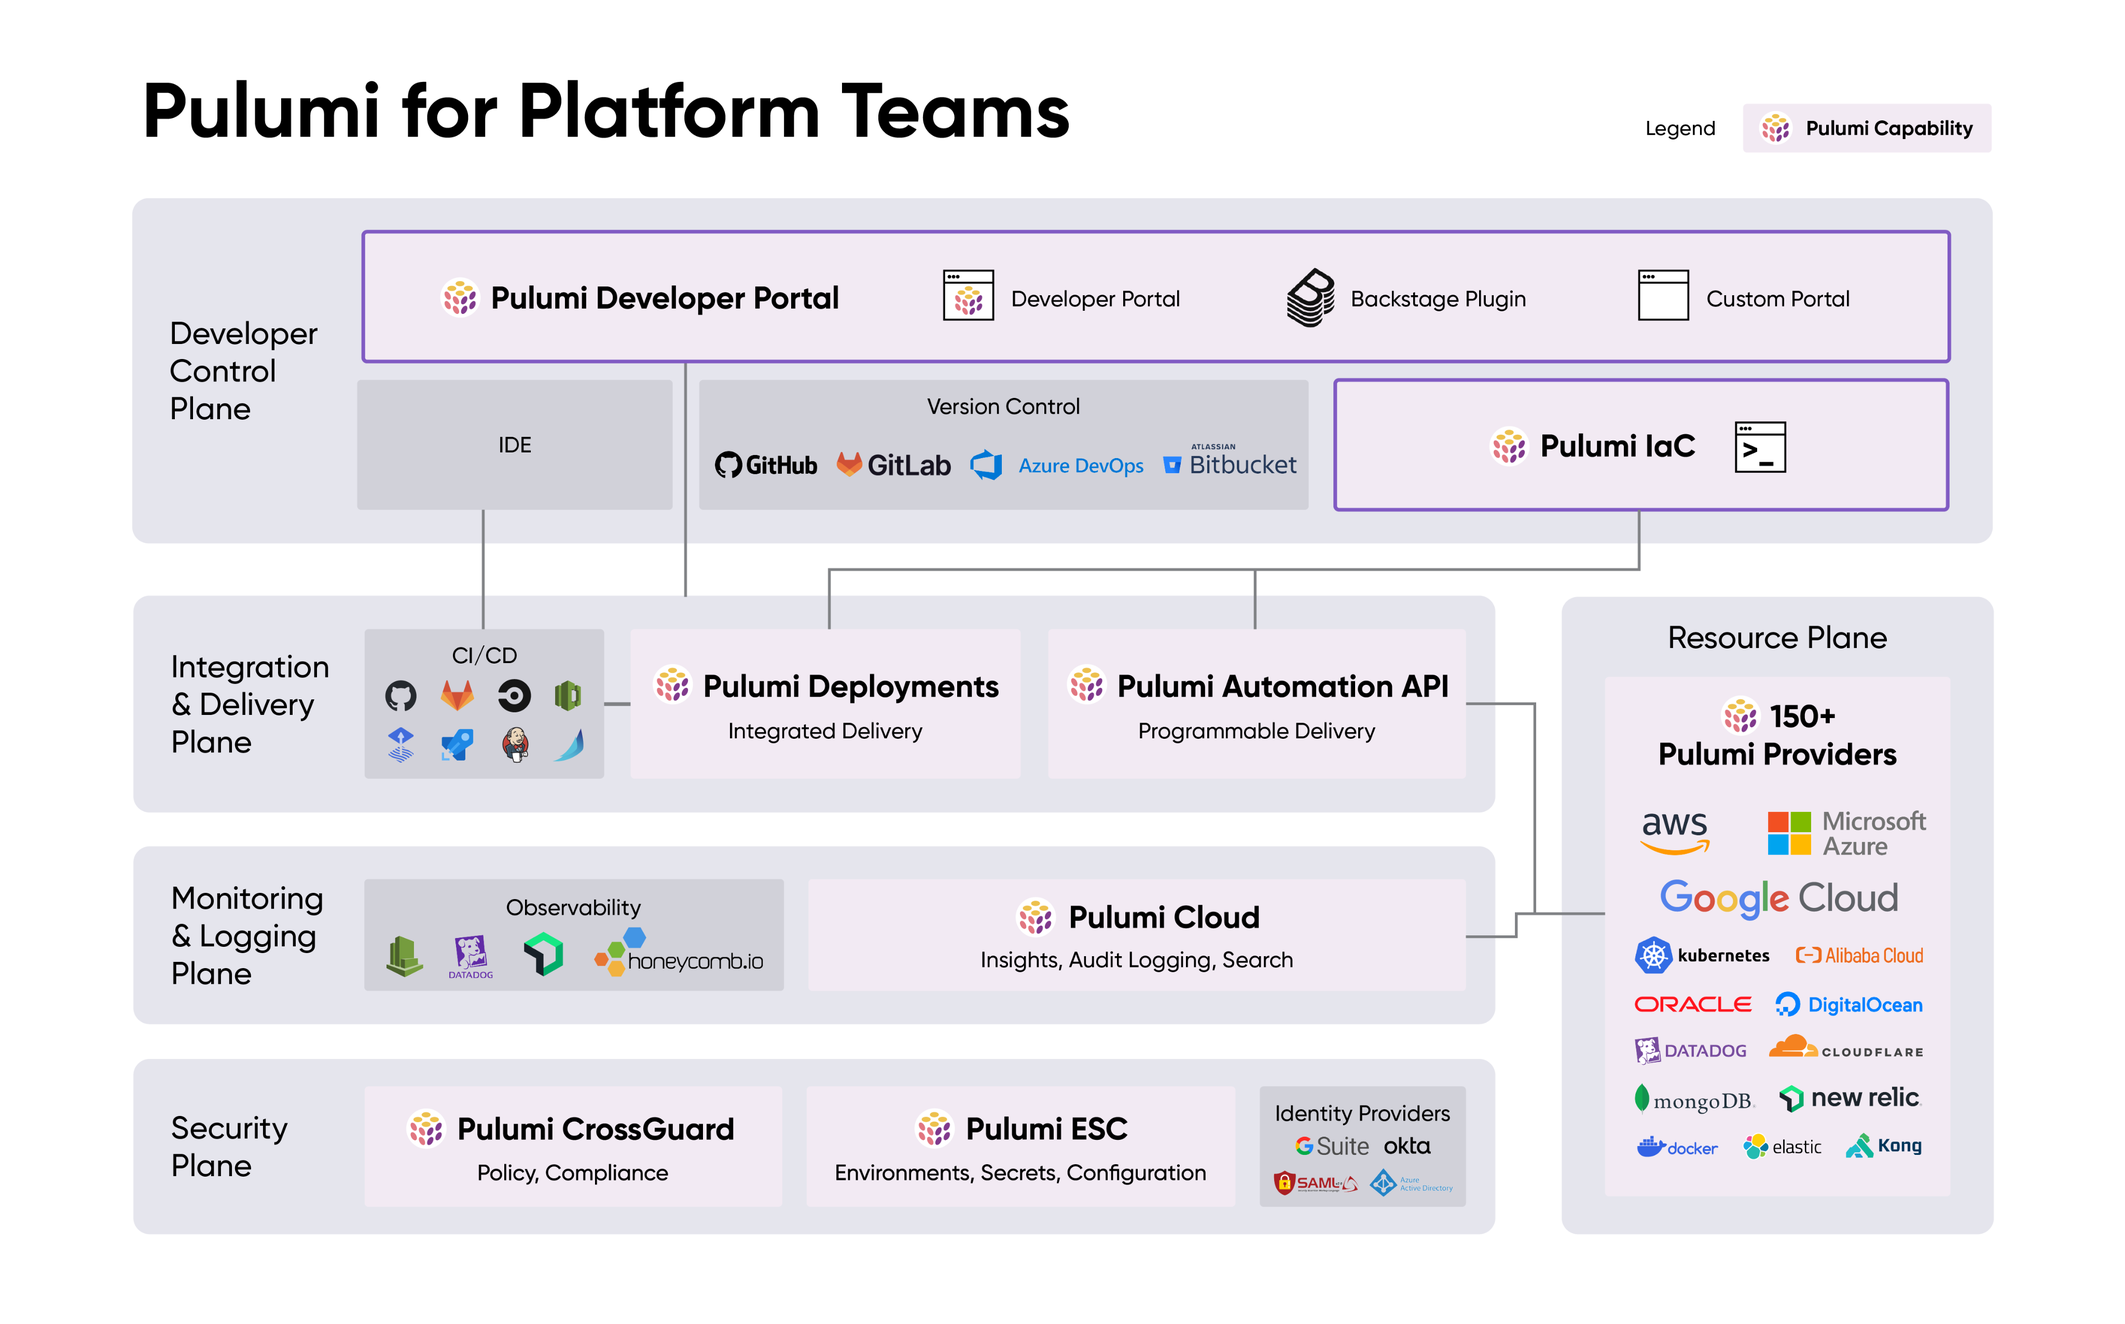
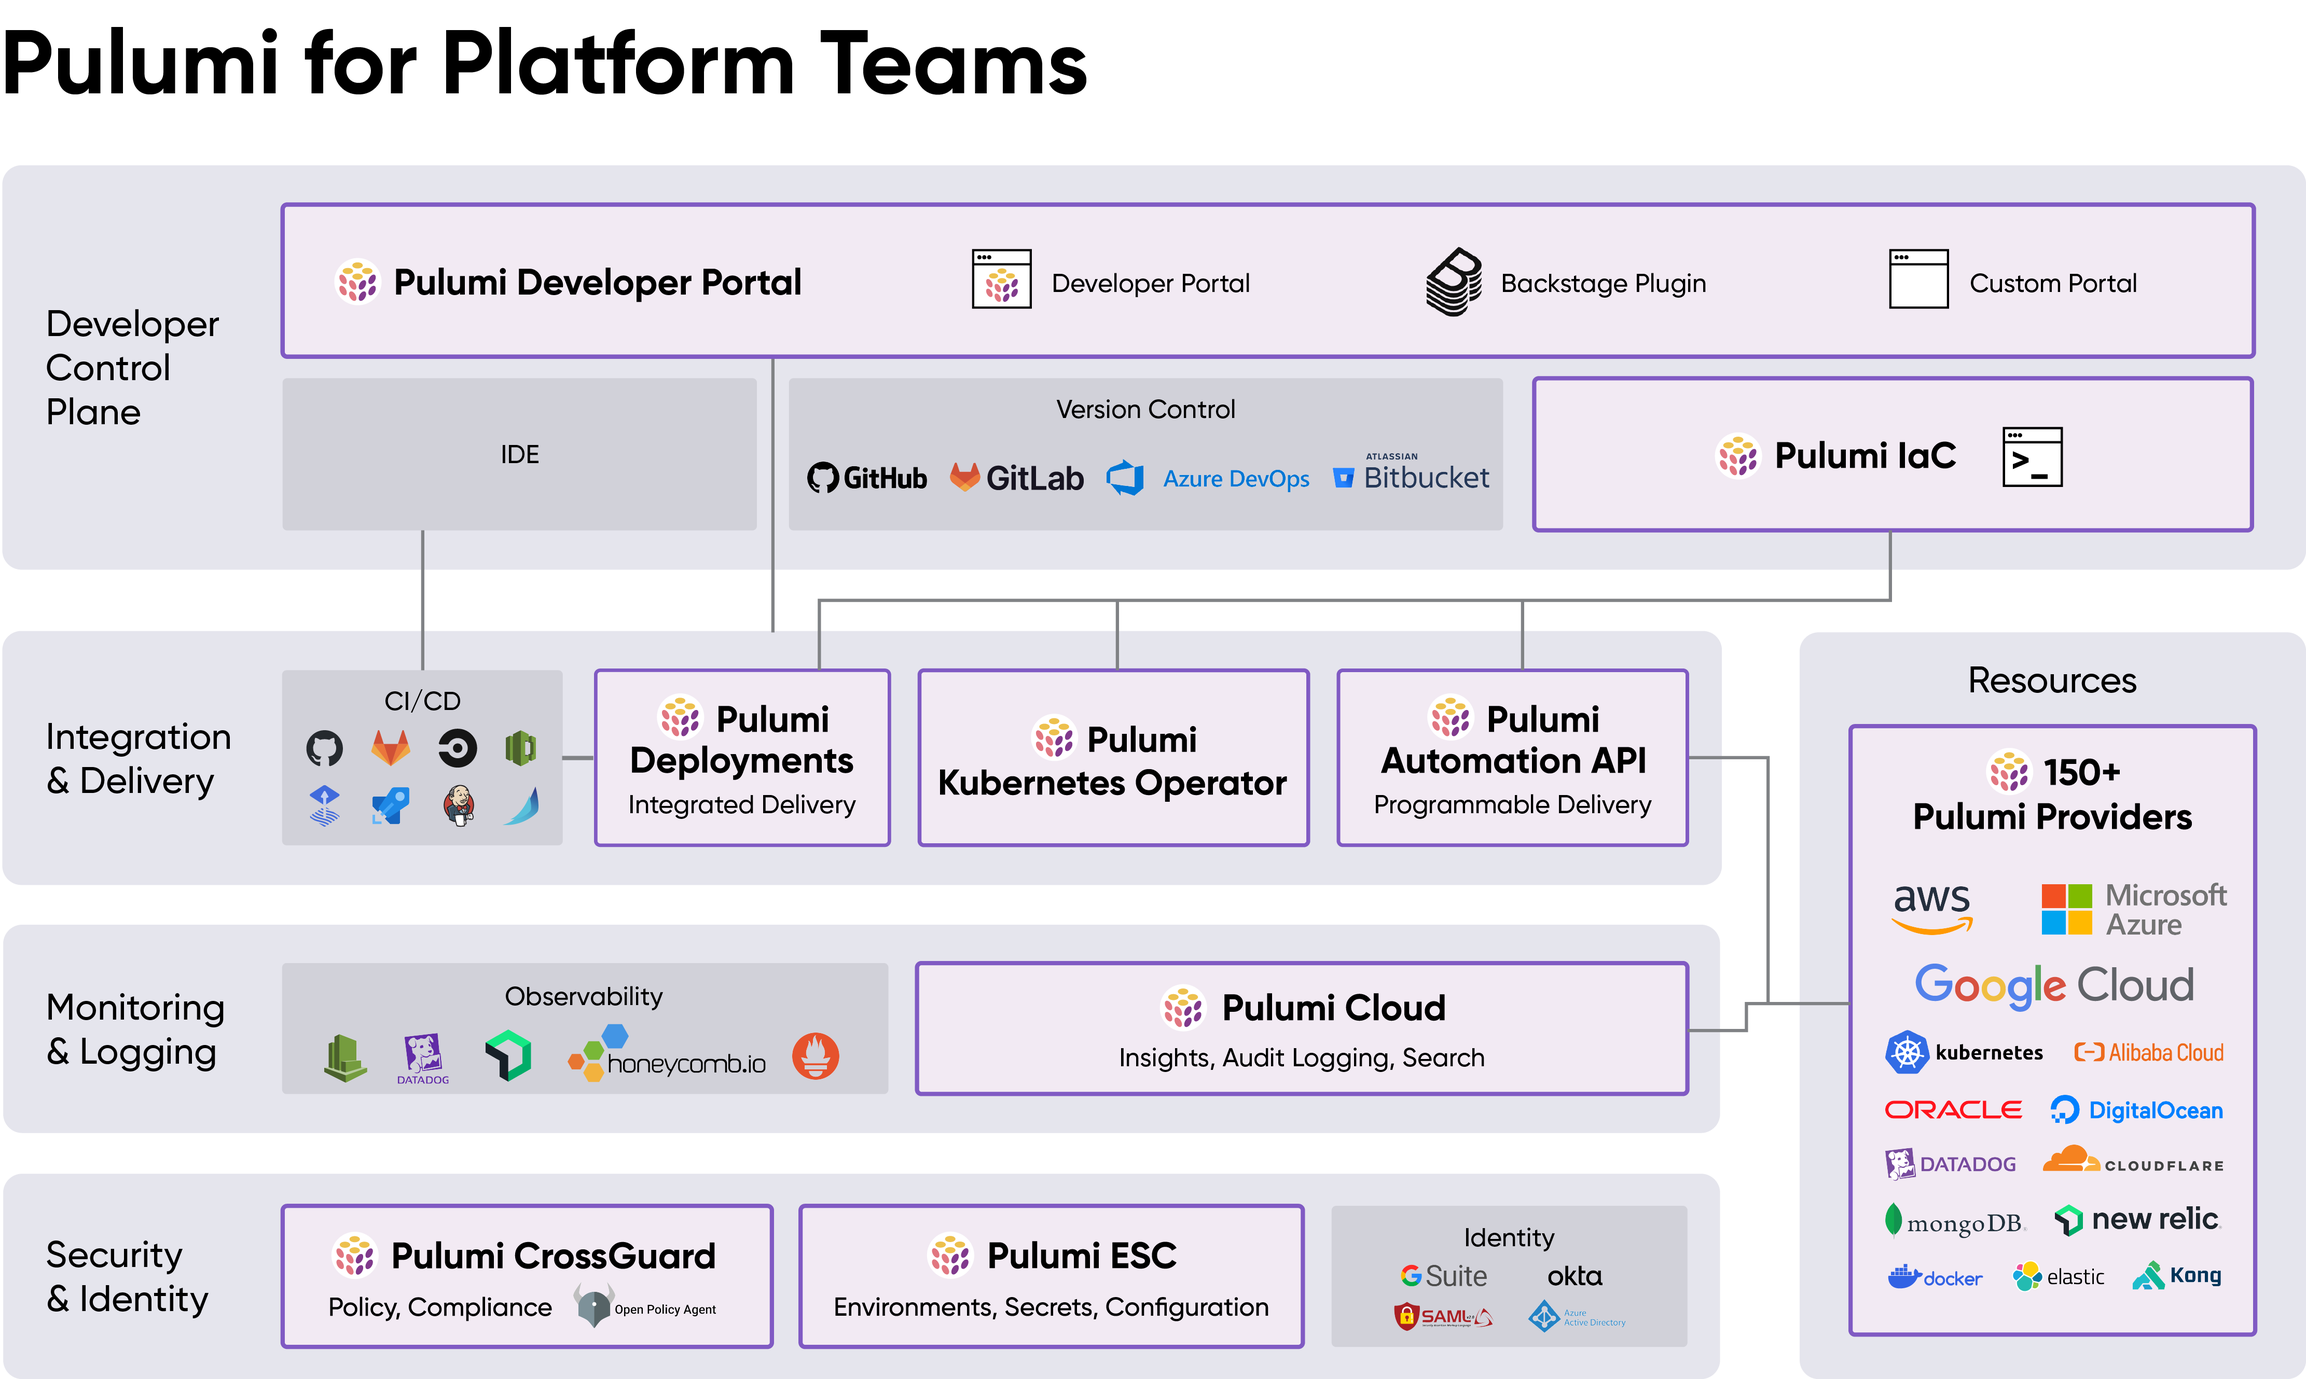
text edits for platform teams page (#176)
* text edits for platform teams page

* add platform teams meta image

* update platform teams diagram

* final text edits

* update platform teams nav title

---------

diff --git a/themes/default/layouts/product/internal-developer-platforms.html b/themes/default/layouts/product/internal-developer-platforms.html
@@ -32,7 +32,7 @@
     <section id="solutions" class="container mx-auto my-16">
         <div class="max-w-5xl mx-auto text-center px-6">
             <h3>How Pulumi’s platform-in-a-box can help</h3>
-            <p>Internal developer platforms (IDPs) enable developers to quickly provision approved infrastructure, boosting productivity with pre-configured architectures, automated testing, and deployment adhering to organizational standards.</p>
+            <p>Internal developer portals (IDPs) enable developers to quickly provision approved infrastructure, boosting productivity with pre-configured architectures, automated testing, and deployment adhering to organizational standards.</p>
         </div>
         <div class="md:flex mx-auto mb-8">
             <div class="md:w-1/3 p-4">
@@ -78,7 +78,7 @@
                     {{ partial "color-icon.html" (dict "icon" "collab" "icon_color" "blue") }}
                     <h5>Collaborate across DevSecOps</h5>
                     <p>
-                        Pulumi’s infrastructure and policy as code engine foster collaboration between developers, security, and operations through common, popular programming languages.
+                        Pulumi’s infrastructure and policy as code engine fosters collaboration between developers, security, and operations through common, popular programming languages.
                     </p>
                 </div>
             </div>
@@ -107,8 +107,8 @@
 
     <section id="how-it-works" class="container mx-auto my-16 pt-8">
         <div class="max-w-5xl mx-auto text-center px-6">
-            <h3>How Pulumi for platform teams works</h3>
-            <p>Pulumi offers all the building blocks needed to build internal developer platforms (IDPs). Use them together as a complete IDP solution or integrate components selectively into your existing IDP via rich APIs.</p>
+            <h3>How Pulumi for Platform Teams works</h3>
+            <p>Pulumi offers all the building blocks needed to build internal developer portals (IDPs). Use them together as a complete IDP solution or integrate components selectively into your existing IDP via rich APIs.</p>
         </div>
         <img src="/images/product/platform-teams-diagram.png" alt="Pulumi for Platform Teams architecture diagram" />
     </section>
@@ -129,7 +129,7 @@
             <div class="flex flex-col lg:flex-row">
                 <div class="w-full my-auto lg:w-1/2 lg:mr-32 z-10 p-8">
                     {{ partial "color-icon.html" (dict "icon" "code" "icon_color" "yellow") }}
-                    <h3>Developer Control</h3>
+                    <h3>Developer control</h3>
                     <p>Define standard infrastructure as code templates in your preferred programming language with Pulumi, allowing developers in your organization to self-service infrastructure. Make self-service provisioning easy for developers with Pulumi’s out-of-the-box portal or integrate your Backstage portal.</p>
                 </div>
                 <div class="w-full lg:w-1/2 block lg:flex flex-col lg:justify-center p-6 md:pl-24 xl:pl-0">
@@ -202,7 +202,7 @@
                 <div class="w-full my-auto lg:w-1/2 lg:mr-32 z-10 p-8">
                     {{ partial "color-icon.html" (dict "icon" "security" "icon_color" "purple") }}
                     <h3>Security, monitoring, and logging</h3>
-                    <p>Secure, monitor, and log infrastructure deployed by your IDP. Set up deployment guardrails that enforce compliance. Receive detailed history, tracking, and audit logs for infrastructure. Manage configurations and secrets centrally and securely, ensuring you have visibility and control over who can access config & secrets.</p>
+                    <p>Secure, monitor, and log infrastructure deployed by your IDP. Set up deployment guardrails that enforce compliance. Receive detailed history, tracking, and audit logs for infrastructure. Manage configurations and secrets centrally and securely, ensuring you have visibility and control over who can access secrets and configuration.</p>
                 </div>
                 <div class="w-full lg:w-1/2 block lg:flex flex-col lg:justify-center p-6 md:pl-24 xl:pl-0">
                     {{ range $item := .Params.security.items }}

diff --git a/themes/default/layouts/product/pulumi-deployments.html b/themes/default/layouts/product/pulumi-deployments.html
@@ -11,7 +11,7 @@
             <h2>{{ .title }}</h2>
             <p class="text-left">{{ .description | markdownify }}</p>
             <div class="mt-8">
-                <a href="/docs/pulumi-cloud/deployments/" class="btn-secondary">Get Started with Deployments</a>
+                <a href="https://app.pulumi.com/signup/" class="btn-secondary">Get Started with Deployments</a>
             </div>
         {{ end }}
     </section>
@@ -62,7 +62,7 @@
             <iframe src="{{ .Params.preview.youtube_url }}" style="position: absolute; top: 0; left: 0; width: 100%; height: 100%; border:0;" allowfullscreen=""></iframe>
         </div>
         <div class="mt-16">
-            <a href="/docs/pulumi-cloud/deployments/" class="btn-secondary">Get Started with Deployments</a>
+            <a href="https://app.pulumi.com/signup/" class="btn-secondary">Get Started with Deployments</a>
         </div>
     </section>
 
@@ -101,7 +101,7 @@
                         {{ partial "color-icon.html" (dict "icon" "eye" "icon_color" "violet") }}
                         <h5>Review Stacks</h5>
                         <p>
-                            Automate creation and deletion of dedicated cloud environments for every pull request, enable cost-effective reviews.
+                            Automate creation and deletion of dedicated cloud environments for every pull request, enabling cost-effective reviews.
                         </p>
                     </div>
                 </div>
@@ -156,7 +156,7 @@
 
     <section id="pricing" class="relative mx-auto text-center">
         <h2>Pricing</h2>
-        <p>Pulumi deployments costs $0.01 per deployment minute.<br/>Any charges from Pulumi Deployments is in addition to your Pulumi Cloud edition billing. See Pricing to learn more.</p>
+        <p>{{ "Pulumi Deployments costs $0.01 per deployment minute.<br/>Any charges from Pulumi Deployments are in addition to your Pulumi Cloud edition billing. See [Pricing](/pricing) to learn more." | markdownify }}</p>
         <div class="mx-5 mt-8 flex justify-center text-left">
             <div class="lg:flex lg:items-stretch">
                 <div class="edition bg-white p-5 pb-8 xl:pl-8 hidden lg:flex lg:grow card mr-4 xl:mr-8">

diff --git a/themes/default/layouts/page/crossguard.html b/themes/default/layouts/page/crossguard.html
@@ -23,7 +23,7 @@
                         {{ partial "color-icon.html" (dict "icon" "shield" "icon_color" "violet") }}
                         <h5>Any Policy</h5>
                         <p>
-                            Use off-the-shelf rules or define your own, for security, cost, compliance, reliability best practices &mdash; just about anything. Use package managers
+                            Use off-the-shelf rules or define your own for security, cost, compliance, reliability best practices &mdash; just about anything. Use package managers
                             to share and reuse rules.
                         </p>
                     </div>
@@ -33,7 +33,7 @@
                         {{ partial "color-icon.html" (dict "icon" "clouds" "icon_color" "yellow") }}
                         <h5>Any Cloud</h5>
                         <p>
-                            Govern application and infrastructure resources on any cloud, including AWS, Azure, Google Cloud, Kubernetes, or over three dozen more infrastructure
+                            Govern application and infrastructure resources on any cloud, including AWS, Azure, Google Cloud, Kubernetes, and 150+ more infrastructure
                             providers.
                         </p>
                     </div>
@@ -86,7 +86,7 @@
             <div class="bg-gray-200 rounded-xl mx-0 lg:mx-32 text-center pt-12">
                 <h3>Enterprise Compliance Enforcement</h3>
                 <div class="p-4 mx-auto w-full lg:w-2/3 text-xl text-gray-700">
-                    Business Critical customers can enforce compliance and remediate non-compliance using Pulumi provided policies across your organizataion.
+                    Business Critical customers can enforce compliance and remediate non-compliance using Pulumi provided policies across your organization.
                 </div>
                 <div class="md:flex mx-auto">
                     <div class="md:w-1/3 p-4">

diff --git a/themes/default/layouts/partials/header.html b/themes/default/layouts/partials/header.html
@@ -134,8 +134,8 @@
                                             <div class="list-title">
                                                 <a href="/product/internal-developer-platforms/">
                                                     <i class="fas fa-box-open fa-fw"></i>
-                                                    Internal Developer Platforms
-                                                    <div class="list-sub-title">Accelerate productivity, enforce compliance, and maintain visibility with our internal developer platform-in-a-box</div>
+                                                    Pulumi for Platform Teams
+                                                    <div class="list-sub-title">Internal developer platform in a box. Accelerate productivity and enforce compliance.</div>
                                                 </a>
                                             </div>
                                         </li>
@@ -383,7 +383,7 @@
                                         <a href="/product/pulumi-insights/"> <i class="fas fa-eye fa-fw"></i> Pulumi Insights </a>
                                     </li>
                                     <li>
-                                        <a href="/product/internal-developer-platforms/"> <i class="fas fa-box-open fa-fw"></i> Internal Developer Platforms </a>
+                                        <a href="/product/internal-developer-platforms/"> <i class="fas fa-box-open fa-fw"></i> Pulumi for Platform Teams </a>
                                     </li>
                                     <li>
                                         <a href="/product/esc/"> <i class="fas fa-cog fa-fw"></i> Pulumi ESC </a>

diff --git a/themes/default/content/product/internal-developer-platforms.md b/themes/default/content/product/internal-developer-platforms.md
@@ -4,6 +4,8 @@ layout: internal-developer-platforms
 
 meta_title: "Self-Service Developer Platforms with Pulumi"
 meta_desc: Pulumi for Platform Teams! Accelerate productivity, enforce compliance, and maintain visibility with our internal developer platform-in-a-box.
+meta_image: /images/product/platform-teams-meta.png
+
 aliases:
 
 challenges:
@@ -13,7 +15,7 @@ challenges:
           description: Remove productivity obstacles like configuring cloud architectures, provisioning bottlenecks, and testing and deployment.
         - number: 2
           title: Security and compliance
-          description: Set up guardrails that enforce compliance and standardswhile maintaining visibility over what’s being deployed and how.
+          description: Set up guardrails that enforce compliance and standards while maintaining visibility over what’s being deployed and how.
         - number: 3
           title: Balancing agility and guardrails
           description: Accomplishing both speed and compliance with limited resources and without stifling developers’ autonomy and flow.
@@ -44,7 +46,7 @@ control:
         - title: Pulumi IaC
           description: Utilize open-source IaC in TypeScript/JavaScript, Python, Go, C#, Java, and YAML. Build and distribute reusable infrastructure components for 150+ cloud & SaaS providers, supporting modern and cloud-native architectures.
         - title: Pulumi Developer Portal
-          description: Distribute standard private templates through an out-of-the-box service catalog, which developers can browse and deploy from using the Pulumi Cloud console. API integration with your VCS, Pulumi Deployments, CI/CD, and more.
+          description: Distribute standard private templates through an out-of-the-box Service Catalog experience, which developers can browse and deploy from using the Pulumi Cloud console. API integration with your VCS, Pulumi Deployments, CI/CD, and more.
         - title: Backstage Plugin
           description: Enable developers to browse, deploy, and monitor Pulumi infrastructure deployments from an existing Backstage portal. Use the plugin to integrate Backstage with Pulumi Developer Portal, where your private infrastructure templates are hosted.
 
@@ -62,5 +64,5 @@ security:
         - title: Pulumi Cloud
           description: Maintain control and tracking over deployed infrastructure, with complete history of updates and audit logs easily viewable from a console. Enhance security with RBAC, identity provider integrations, SSO, and more.
         - title: Pulumi ESC
-          description: With Pulumi ESC, centrally store and manage configurations and secrets from different providers. It provides a unified, secure location for all your configuration while managing developer access centrally.
+          description: Centrally store and manage secrets and configuration from different providers. It provides a unified, secure location for all your configuration while managing developer access centrally.
 ---

diff --git a/themes/default/content/product/_index.md b/themes/default/content/product/_index.md
@@ -39,7 +39,7 @@ key_features_above:
                 color: salmon
               - title: Write Policy as Code
                 description: |
-                    Write Policy as Code in programming languages to enforce best practices with [Crossguard](/crossguard/).
+                    Write Policy as Code in programming languages to enforce best practices with [CrossGuard](/crossguard/).
                 icon: shield
                 color: blue
         - title: One source of truth for your Secrets and Configurations
@@ -236,7 +236,7 @@ key_features:
               - title: Pulumi Automation API
                 description: |
                     Build custom deployment and CI/CD workflows that integrate with Pulumi Developer Portal, custom portals, or CLIs.
-              - title: Developer Portals
+              - title: Developer portals
                 description: |
                     Create internal developer portals to distribute infrastructure templates to developers using Pulumi or the Backstage-plugin.
               - title: State & secrets
@@ -247,7 +247,7 @@ key_features:
                     Manage teams with SCIM, SAML SSO, GitHub, GitLab, or Atlassian. Set permissions and access tokens.
               - title: Policy enforcement
                 description: |
-                    Build policy packs from 150 policies or write your own. Leverage compliance-ready policies for any cloud to increase compliance posture and compliance as code for instant remediation.
+                    Build policy packs from 150 policies or write your own. Leverage compliance-ready policies for any cloud to increase compliance posture and remediation policies to correct violations.
               - title: Audit logs
                 description: |
                     Track and store user actions and change history with option to export logs.

diff --git a/themes/default/content/product/pulumi-deployments.md b/themes/default/content/product/pulumi-deployments.md
@@ -61,7 +61,7 @@ learn:
               type: primary
               action: Sign up for Pulumi Cloud
         - title: Documentation
-          description: Refer to our documentation to get Pulumi Deployments set up once you have been accepted into the Preview.
+          description: Review our documentation to learn more about Pulumi Deployments.
           buttons:
             - link: /docs/pulumi-cloud/deployments
               type: secondary
